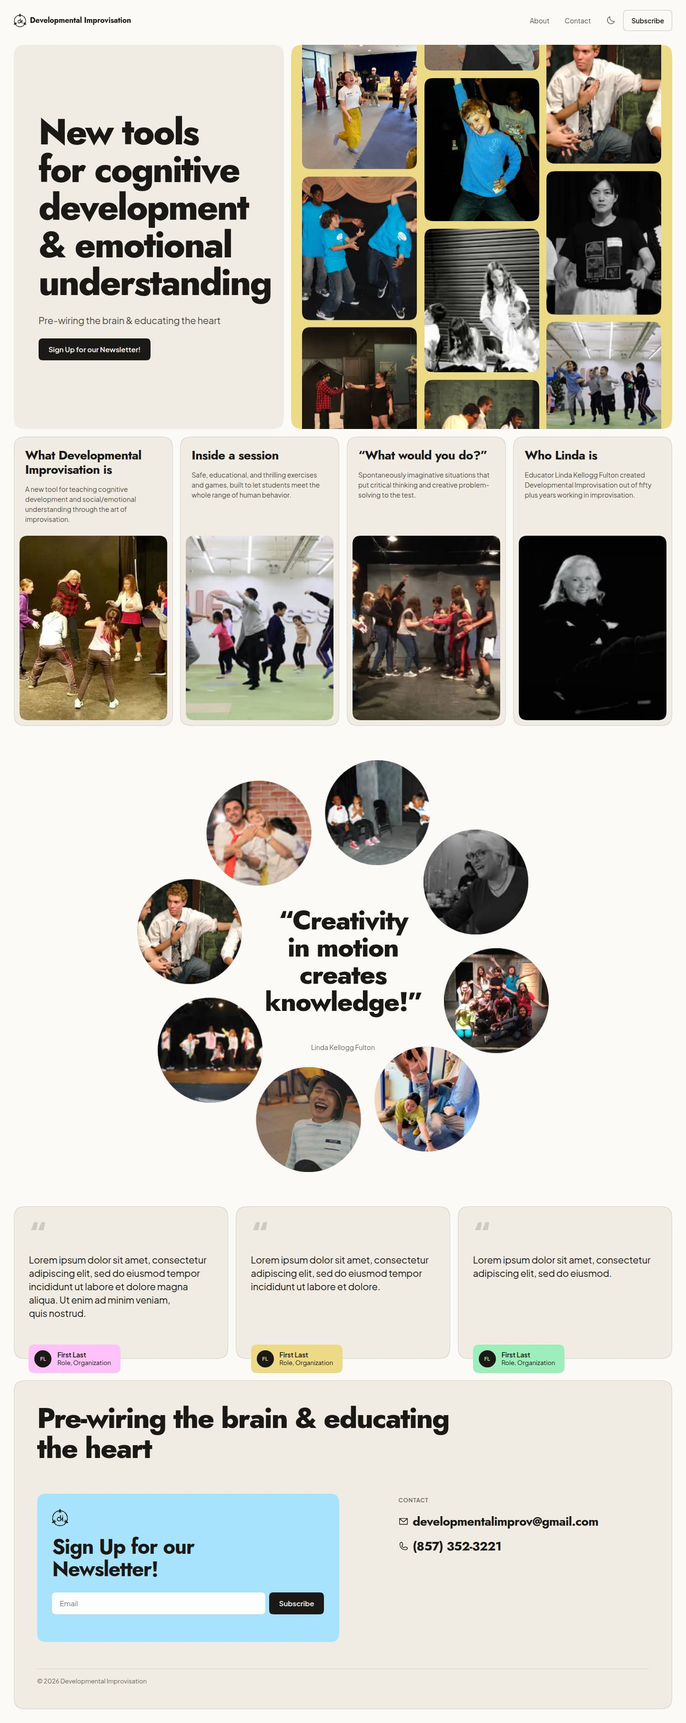
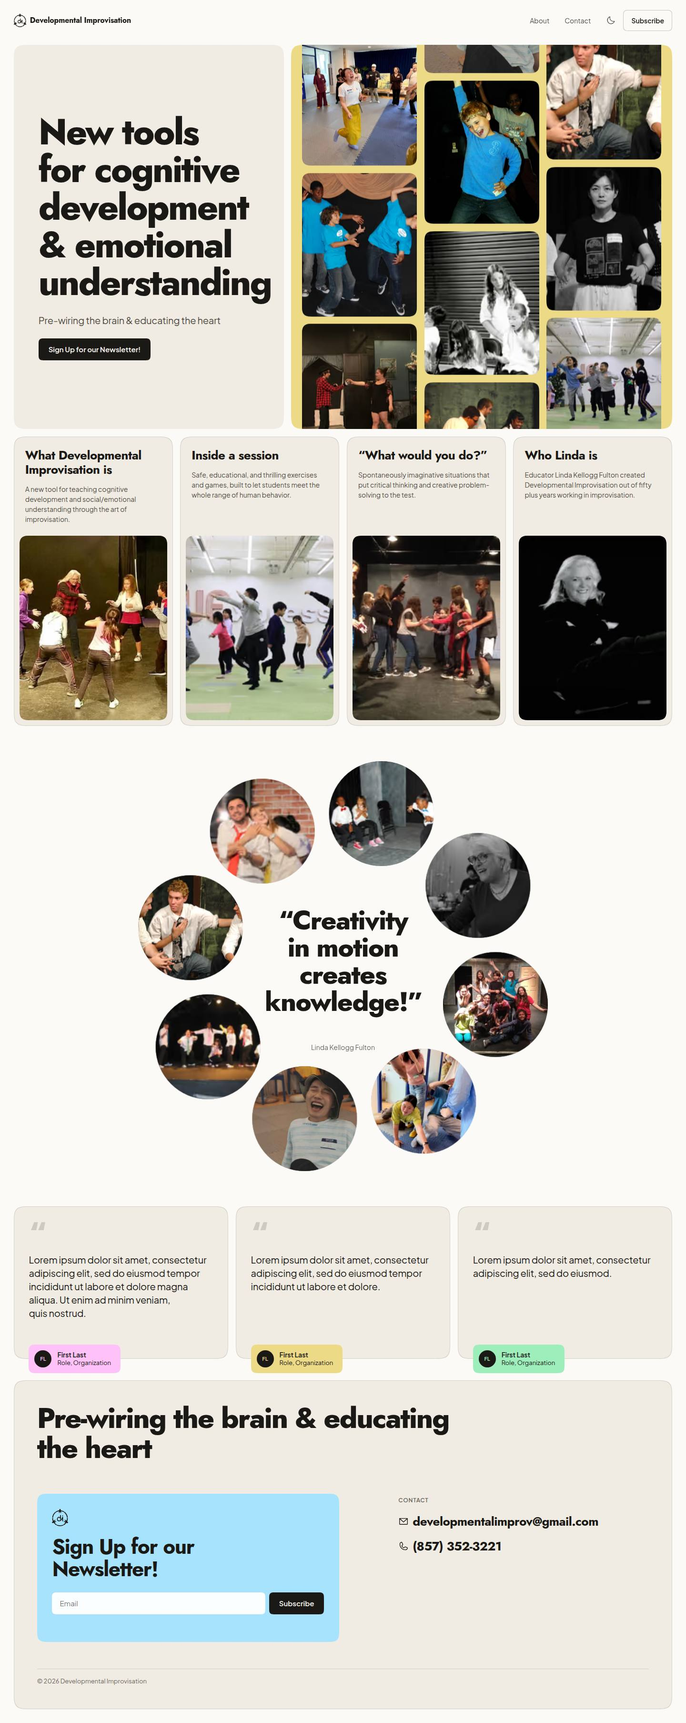
DI: a resize pass — a wide card is a horizontal card
"resizing the screen needs work not every part works nicely or shrinks nicely."
A 22-width sweep from 1920 to 320 found no overflow anywhere, and three real
faults none of the gates were looking for.

**The card row's middle range was broken.** Under a 4:5 photograph a card's
height tracks its WIDTH, so the wider the card the taller it gets — backwards
for a row that should get shorter as the screen narrows. At 1200 a 569px card
made a 683px photograph and an 850px card, and two of them filled a screen.
A wide card is a horizontal card now: the copy beside the picture, the figure
on a fixed 40% share. Sizing the figure by the card's HEIGHT instead was tried
first and is worse — the picture and the title chase each other until the
title breaks one word to a line.

The two bands are 1024–1279 (two up, 486–569px cards) and 561–767 (one up,
529–735px), which are not adjacent because it is the CARD's width that decides,
not the viewport's. A comma-separated media query list says exactly that.

**The closing field split at 768** and left its email input 170px wide, which
is not a field, it is a slot. It splits at 1024 now, and the input/button pair
stacks below 600 instead of 480.

**On a phone the testimonial's person chip sat 18px inside the next quote
card.** The 30px overhang was cleared against the closing field two rounds ago
but never against the next card when they stack. The layout gate holds that
geometry now, at every width it tests.

44 gate lines pass.
[…]

Changed region(s): [[0.4375, 0.0, 0.9688, 0.2479], [0.1875, 0.4337, 0.8125, 0.6816]]

diff --git a/di-site/css/home.css b/di-site/css/home.css
@@ -76,6 +76,22 @@
 .brief__arrow .icon { width: 16px; height: 16px; }
 .brief:hover .brief__arrow { transform: translateX(3px); }
 @media (min-width: 1280px) { .brief { grid-column: span 3; } }
+/* A wide card is a HORIZONTAL card. Under a 4:5 photograph, a card's height tracks its WIDTH — so the wider the card
+   the taller it gets, which is backwards for a row that should get shorter as the screen narrows: at 1200 a 569px card
+   made a 683px photograph and an 850px card. Beside the copy instead, the photograph is sized by the card's height, it
+   keeps 4:5, and the row keeps a sensible one. This is the range a card grid always gets wrong. */
+/* Two bands, because it is the CARD's width that decides, not the viewport's: two-up between 1024 and 1279 gives a
+   486–569px card, and one-up between 561 and 767 gives a 529–735px one. Everywhere else the card is 288–486 and the
+   vertical arrangement is right. */
+@media (min-width: 561px) and (max-width: 767px), (min-width: 1024px) and (max-width: 1279px) {
+  /* the figure takes a FIXED share of the card, or the photograph's height and the head's width chase each other:
+     sized by the card's height, the picture grew until the title was breaking one word to a line */
+  .brief { flex-direction: row; align-items: stretch; }
+  .brief__head { flex: 1 1 auto; align-self: center; padding: var(--sp-6); }
+  .brief__figure { flex: 0 0 40%; margin: var(--sp-3) var(--sp-3) var(--sp-3) 0; align-self: center; }
+  .brief__figure .photo { width: 100%; height: auto; }
+  .brief__more { left: var(--sp-6); bottom: var(--sp-6); }
+}
 /* no pointer, no hover: on a touch screen the hue and the control are simply the resting state, or the section never
    has either */
 @media (hover: none) {
@@ -126,8 +142,11 @@
 .voice__role { font-size: var(--fs-caption); color: var(--ink-3); line-height: 1.3; }
 @media (min-width: 768px) { .voices > .voice { grid-column: span 4; } }
 
-/* the sub-card hangs 30px below its card; the field below has to start clear of it, not on it */
+/* the sub-card hangs 30px below its card, and whatever comes next has to start clear of it, not on it: the closing
+   field below the row, and — where the cards stack — the next card. On a phone the plain grid gap left the chip
+   sitting 18px INSIDE the following quote. */
 .voices-sec { padding-bottom: calc(30px + var(--grid-gap)); }
+@media (max-width: 767px) { .voices { row-gap: calc(var(--grid-gap) + 30px); } }
 
 /* ---------- The closing field ----------
    Newsletter, contact and footer were three thin bands. They are one panel now — and the SKY moved off the panel and
@@ -153,7 +172,7 @@
 .close__sign .input { background: rgba(255,255,255,.94); box-shadow: none; }
 .close__sign .btn--primary { background: var(--ink); color: #F7F5F0; }
 @media (max-width: 767px) { .close__reach a { font-size: var(--fs-lead); } }   /* the address is 29 characters: at h3 it breaks mid-word on a phone */
-@media (min-width: 768px) {
+@media (min-width: 1024px) {
   .close__sign { grid-column: 1 / span 6; }
   .close__reach { grid-column: 8 / span 5; padding-top: var(--sp-2); }
 }

diff --git a/di-site/css/components.css b/di-site/css/components.css
@@ -69,7 +69,7 @@
 .field.is-error .input { box-shadow: inset 0 0 0 1px var(--ink); }
 .field__message { margin-top: var(--sp-2); font-size: var(--fs-caption); color: var(--ink-3); min-height: 1.4em; }
 .field__message[data-state="error"] { color: var(--ink); }
-@media (max-width: 479px) { .field { flex-direction: column; } .field .btn { width: 100%; } }
+@media (max-width: 599px) { .field { flex-direction: column; } .field .btn { width: 100%; } }
 
 /* Nav — no container at all: the wordmark on the left, the controls on the right, directly on the page at the field's
    gutter. It is fixed, and it behaves the way Jayden asked for: it leaves going down and comes back going up. At the top

diff --git a/di-site/docs/design-system.md b/di-site/docs/design-system.md
@@ -84,6 +84,8 @@ Tracking tightens as size grows; leading loosens as it shrinks. Measures are in 
 ## 5. Space and the column
 The page used to put a 1280 column inside a 40px gutter and read as a strip floating in dead space. Now: `--page-max` 1720, `--gutter` `clamp(16px, 2vw, 36px)` — content starts 29px from the edge at 1440, not 120px — `--grid-gap` `clamp(12px, 1.1vw, 20px)`, `--section-y` `clamp(56px, 2.2vw + 32px, 88px)`, `--card-pad` `clamp(20px, 2.2vw, 40px)`. Everything lays out on the same twelve columns (`.grid`; six below 768), and **the vertical rhythm is the same gap**: the header tiles, the hero's two panels, the four cards, the testimonials and the closing field are one continuous field separated by `--grid-gap`, not by section padding. `--section-y` survives in exactly one place — either side of the ring, which is the field's only break. `--field-top` (`--grid-gap` × 2 + `--nav-h`) is what the header row and the gap under it add up to, which is what puts the fold exactly on the field's next gap. The column is wide enough (`--page-max` 1720) that on a laptop the page IS the screen minus one small even inset, which is what puts the big surfaces a short spacing from the outer edge instead of inside a narrow centred strip. Hairlines are inset rims (`box-shadow: inset 0 0 0 1px`), never borders, so they never change an element's box.
 
+**Breakpoints are decided by the element's own width, not the viewport's.** The card row is the case that proves it: it needs a different arrangement in two bands that are not adjacent (1024–1279 and 561–767), because both are where a *card* comes out too wide. A media query list with a comma says exactly that. The same reasoning moved the closing field's two-column split from 768 up to 1024 — at 768 the sign-up card was 334px and its email input 170px, which is not a field, it is a slot — and the input/button pair now stacks below 600 rather than 480.
+
 ## 5b. Arrival
 Every section enters with intent rather than one flat 12px fade: the ring assembles one circle at a time, the testimonials stagger, the closing field rises. One `IntersectionObserver` drives all of it through `.reveal` and `.reveal--parts`. **Never observe a zero-area element** — the ring's orbit is a 0×0 positioning origin, and an element with no area can never satisfy a `threshold: 0.2`, so the ring simply never appeared; the *stage* is what is observed.
 
@@ -108,7 +110,7 @@ The page below it is **one bento field**, top to bottom, at one gutter and one g
 
 0. **The header — no container at all.** The wordmark on the left, the links, the theme toggle and Subscribe on the right, sitting directly on the page at the field's gutter. No bar, no glass, no tiles: Jayden asked for it clean and minimal, and the panel it used to sit in was one more surface competing with the field below it. **It leaves going down and comes back going up** — the pattern Jayden asked for by name. Fixed at every width; at the top of the page it has no ground at all, and anywhere else, once it is showing, it takes the least surface that can carry type over a photograph: the ground at 78%, blurred, with a hairline. A **6px threshold** is what keeps it from flickering on a trackpad's noise, above the fold it always shows, and **keyboard focus reveals it wherever it is**, so a tab stop can never sit off screen. Under reduced motion it still hides — it just does not slide. `scroll-margin-top` keeps an anchor from landing under it. There is no Home link — the logo is the way home — and no Gallery link: the gallery *is* the hero, so that item pointed at the top of the page from the top of the page. **About** and **Contact**.
 1. **Hero: two panels, filling the screen.** The panel's height *is* the hero's height (`100svh − --field-top`), so the fold lands exactly on the field's next gap: no centring air below the panels, and the card row starts just off screen rather than competing with the headline. The copy on a **cream panel**, left five columns; the right seven a **colour panel** holding a bento of fifteen photographs in three columns, looping vertically with the flow, adjacent columns in opposite directions at three speeds (`--speed` per column). **The panel's own rounded edge is the crop** — there is no soft mask. Each column carries its contents twice and `[data-mid]` marks the loop length; every tile has an intrinsic ratio, so that length is stable before the images load. The panel needs an explicit `height`: `overflow: hidden` does not constrain a box sizing to its own content, and a column of ten tiles once made the row 3197px tall.
-2. **The four cards.** One row, four identical objects, three columns each: a head carrying the title and a two-line summary; the photograph below it; one control. There were two chips above each title — a number and a topic — and they were saying what the title already said. The title *is* the header: what it is · inside a session · "what would you do?" · who Linda is. The **whole card** fills with its hue under the pointer and on keyboard focus — head and ground together; filling only the head left a seam at the photograph's top edge and read as two objects stacked rather than one card lighting up. The ink rebind stays on the head: put it on the card and the control inherits it, and a pill whose ground is `--bg-overlay` and whose ink is `--on-accent` renders as a black blob on an orange card. Two cards say what Developmental Improvisation is, one says what it asks of a student, one says who Linda is. **The photograph slips `--slip` 20px up out of its box and over the colour** — the one place on the page a panel's contents cross an edge, and small on purpose: 20px reads as deliberate, 60px reads as broken. The pill arrives with the hue — at rest the card is a title, a summary and a picture — and focus reveals it too, because a control the keyboard can reach but never see is worse than none. The whole card is the trigger and the pill is the keyboard route; both open **the reader** (a click that ends a text selection does not — a card is a big target wrapped around selectable words), a dialog whose head takes that card's hue so the panel clicked and the panel opened are plainly the same object. The full copy lives in the card (`.brief__full`) and is hidden only when there is script to open a reader.
+2. **The four cards.** One row, four identical objects, three columns each — **and a wide card is a horizontal card**. Under a 4:5 photograph a card's height tracks its *width*, so the wider the card the taller it gets, which is backwards for a row that should get shorter as the screen narrows: at 1200 a 569px card made a 683px photograph and an 850px card. Between **1024 and 1279** (two up, 486–569px cards) and between **561 and 767** (one up, 529–735px) the copy sits beside the photograph instead, with the figure on a fixed 40% share — size it by the card's height and the picture and the title chase each other until the title breaks one word to a line. Everywhere else the card is 288–486px and the vertical arrangement is right. Each card carries: a head carrying the title and a two-line summary; the photograph below it; one control. There were two chips above each title — a number and a topic — and they were saying what the title already said. The title *is* the header: what it is · inside a session · "what would you do?" · who Linda is. The **whole card** fills with its hue under the pointer and on keyboard focus — head and ground together; filling only the head left a seam at the photograph's top edge and read as two objects stacked rather than one card lighting up. The ink rebind stays on the head: put it on the card and the control inherits it, and a pill whose ground is `--bg-overlay` and whose ink is `--on-accent` renders as a black blob on an orange card. Two cards say what Developmental Improvisation is, one says what it asks of a student, one says who Linda is. **The photograph slips `--slip` 20px up out of its box and over the colour** — the one place on the page a panel's contents cross an edge, and small on purpose: 20px reads as deliberate, 60px reads as broken. The pill arrives with the hue — at rest the card is a title, a summary and a picture — and focus reveals it too, because a control the keyboard can reach but never see is worse than none. The whole card is the trigger and the pill is the keyboard route; both open **the reader** (a click that ends a text selection does not — a card is a big target wrapped around selectable words), a dialog whose head takes that card's hue so the panel clicked and the panel opened are plainly the same object. The full copy lives in the card (`.brief__full`) and is hidden only when there is script to open a reader.
    *What this replaced:* a sticky stack of four cards, each with a different beat. Jayden: the second card "doesn't act like the rest of the cards and it makes the scroll weird". Four cards of one shape, in a row, is the answer that survived.
 3. **The quote ring — the break.** Eight circular photographs turning around the quote, on the open ground, with `--section-y` either side: the one place the field stops. Its geometry is one relationship: **eight items on a circle of radius r sit 2r·sin(22.5°) = 0.765r apart**, so an item sized near that reads as a necklace rather than as eight dots with ground between them. The clear space inside is `2r − item`, and the quote's column is that minus 32px — derived, not a magic multiplier. The necklace **assembles on arrival**, one photograph a beat after the last; the entrance lives on the photograph inside each item because the item itself carries the flow's transform every frame.
 4. **Testimonials — the field resumes.** Three quiet cards, four columns each: a large quote mark at 16% of the card's ink, the quote, and the person in a **nested card that overhangs the bottom-left corner** — and the hue is on that chip, not on the card. The depth comes from the nesting, not from a shadow. The row carries 30px of bottom padding because that overhang has to land somewhere — without it the three sub-cards sat on the closing field's edge. There is no section label: three quotes with names under them do not need to be told they are testimonials.

diff --git a/di-site/docs/design-system.notion.md b/di-site/docs/design-system.notion.md
@@ -85,6 +85,8 @@ Tracking tightens as size grows; leading loosens as it shrinks. Measures are in 
 ## Space and the column
 The page used to put a 1280 column inside a 40px gutter and read as a strip floating in dead space. Now: `--page-max` 1720, `--gutter` `clamp(16px, 2vw, 36px)` — content starts 29px from the edge at 1440, not 120px — `--grid-gap` `clamp(12px, 1.1vw, 20px)`, `--section-y` `clamp(56px, 2.2vw + 32px, 88px)`, `--card-pad` `clamp(20px, 2.2vw, 40px)`. Everything lays out on the same twelve columns (`.grid`; six below 768), and **the vertical rhythm is the same gap**: the header tiles, the hero's two panels, the four cards, the testimonials and the closing field are one continuous field separated by `--grid-gap`, not by section padding. `--section-y` survives in exactly one place — either side of the ring, which is the field's only break. `--field-top` (`--grid-gap` × 2 + `--nav-h`) is what the header row and the gap under it add up to, which is what puts the fold exactly on the field's next gap. The column is wide enough (`--page-max` 1720) that on a laptop the page IS the screen minus one small even inset, which is what puts the big surfaces a short spacing from the outer edge instead of inside a narrow centred strip. Hairlines are inset rims (`box-shadow: inset 0 0 0 1px`), never borders, so they never change an element's box.
 
+**Breakpoints are decided by the element's own width, not the viewport's.** The card row is the case that proves it: it needs a different arrangement in two bands that are not adjacent (1024–1279 and 561–767), because both are where a *card* comes out too wide. A media query list with a comma says exactly that. The same reasoning moved the closing field's two-column split from 768 up to 1024 — at 768 the sign-up card was 334px and its email input 170px, which is not a field, it is a slot — and the input/button pair now stacks below 600 rather than 480.
+
 ## Arrival
 Every section enters with intent rather than one flat 12px fade: the ring assembles one circle at a time, the testimonials stagger, the closing field rises. One `IntersectionObserver` drives all of it through `.reveal` and `.reveal--parts`. **Never observe a zero-area element** — the ring's orbit is a 0×0 positioning origin, and an element with no area can never satisfy a `threshold: 0.2`, so the ring simply never appeared; the *stage* is what is observed.
 
@@ -109,7 +111,7 @@ The page below it is **one bento field**, top to bottom, at one gutter and one g
 
 0. **The header — no container at all.** The wordmark on the left, the links, the theme toggle and Subscribe on the right, sitting directly on the page at the field's gutter. No bar, no glass, no tiles: Jayden asked for it clean and minimal, and the panel it used to sit in was one more surface competing with the field below it. **It leaves going down and comes back going up** — the pattern Jayden asked for by name. Fixed at every width; at the top of the page it has no ground at all, and anywhere else, once it is showing, it takes the least surface that can carry type over a photograph: the ground at 78%, blurred, with a hairline. A **6px threshold** is what keeps it from flickering on a trackpad's noise, above the fold it always shows, and **keyboard focus reveals it wherever it is**, so a tab stop can never sit off screen. Under reduced motion it still hides — it just does not slide. `scroll-margin-top` keeps an anchor from landing under it. There is no Home link — the logo is the way home — and no Gallery link: the gallery *is* the hero, so that item pointed at the top of the page from the top of the page. **About** and **Contact**.
 1. **Hero: two panels, filling the screen.** The panel's height *is* the hero's height (`100svh − --field-top`), so the fold lands exactly on the field's next gap: no centring air below the panels, and the card row starts just off screen rather than competing with the headline. The copy on a **cream panel**, left five columns; the right seven a **colour panel** holding a bento of fifteen photographs in three columns, looping vertically with the flow, adjacent columns in opposite directions at three speeds (`--speed` per column). **The panel's own rounded edge is the crop** — there is no soft mask. Each column carries its contents twice and `[data-mid]` marks the loop length; every tile has an intrinsic ratio, so that length is stable before the images load. The panel needs an explicit `height`: `overflow: hidden` does not constrain a box sizing to its own content, and a column of ten tiles once made the row 3197px tall.
-2. **The four cards.** One row, four identical objects, three columns each: a head carrying the title and a two-line summary; the photograph below it; one control. There were two chips above each title — a number and a topic — and they were saying what the title already said. The title *is* the header: what it is · inside a session · "what would you do?" · who Linda is. The **whole card** fills with its hue under the pointer and on keyboard focus — head and ground together; filling only the head left a seam at the photograph's top edge and read as two objects stacked rather than one card lighting up. The ink rebind stays on the head: put it on the card and the control inherits it, and a pill whose ground is `--bg-overlay` and whose ink is `--on-accent` renders as a black blob on an orange card. Two cards say what Developmental Improvisation is, one says what it asks of a student, one says who Linda is. **The photograph slips `--slip` 20px up out of its box and over the colour** — the one place on the page a panel's contents cross an edge, and small on purpose: 20px reads as deliberate, 60px reads as broken. The pill arrives with the hue — at rest the card is a title, a summary and a picture — and focus reveals it too, because a control the keyboard can reach but never see is worse than none. The whole card is the trigger and the pill is the keyboard route; both open **the reader** (a click that ends a text selection does not — a card is a big target wrapped around selectable words), a dialog whose head takes that card's hue so the panel clicked and the panel opened are plainly the same object. The full copy lives in the card (`.brief__full`) and is hidden only when there is script to open a reader.
+2. **The four cards.** One row, four identical objects, three columns each — **and a wide card is a horizontal card**. Under a 4:5 photograph a card's height tracks its *width*, so the wider the card the taller it gets, which is backwards for a row that should get shorter as the screen narrows: at 1200 a 569px card made a 683px photograph and an 850px card. Between **1024 and 1279** (two up, 486–569px cards) and between **561 and 767** (one up, 529–735px) the copy sits beside the photograph instead, with the figure on a fixed 40% share — size it by the card's height and the picture and the title chase each other until the title breaks one word to a line. Everywhere else the card is 288–486px and the vertical arrangement is right. Each card carries: a head carrying the title and a two-line summary; the photograph below it; one control. There were two chips above each title — a number and a topic — and they were saying what the title already said. The title *is* the header: what it is · inside a session · "what would you do?" · who Linda is. The **whole card** fills with its hue under the pointer and on keyboard focus — head and ground together; filling only the head left a seam at the photograph's top edge and read as two objects stacked rather than one card lighting up. The ink rebind stays on the head: put it on the card and the control inherits it, and a pill whose ground is `--bg-overlay` and whose ink is `--on-accent` renders as a black blob on an orange card. Two cards say what Developmental Improvisation is, one says what it asks of a student, one says who Linda is. **The photograph slips `--slip` 20px up out of its box and over the colour** — the one place on the page a panel's contents cross an edge, and small on purpose: 20px reads as deliberate, 60px reads as broken. The pill arrives with the hue — at rest the card is a title, a summary and a picture — and focus reveals it too, because a control the keyboard can reach but never see is worse than none. The whole card is the trigger and the pill is the keyboard route; both open **the reader** (a click that ends a text selection does not — a card is a big target wrapped around selectable words), a dialog whose head takes that card's hue so the panel clicked and the panel opened are plainly the same object. The full copy lives in the card (`.brief__full`) and is hidden only when there is script to open a reader.
    *What this replaced:* a sticky stack of four cards, each with a different beat. Jayden: the second card "doesn't act like the rest of the cards and it makes the scroll weird". Four cards of one shape, in a row, is the answer that survived.
 3. **The quote ring — the break.** Eight circular photographs turning around the quote, on the open ground, with `--section-y` either side: the one place the field stops. Its geometry is one relationship: **eight items on a circle of radius r sit 2r·sin(22.5°) = 0.765r apart**, so an item sized near that reads as a necklace rather than as eight dots with ground between them. The clear space inside is `2r − item`, and the quote's column is that minus 32px — derived, not a magic multiplier. The necklace **assembles on arrival**, one photograph a beat after the last; the entrance lives on the photograph inside each item because the item itself carries the flow's transform every frame.
 4. **Testimonials — the field resumes.** Three quiet cards, four columns each: a large quote mark at 16% of the card's ink, the quote, and the person in a **nested card that overhangs the bottom-left corner** — and the hue is on that chip, not on the card. The depth comes from the nesting, not from a shadow. The row carries 30px of bottom padding because that overhang has to land somewhere — without it the three sub-cards sat on the closing field's edge. There is no section label: three quotes with names under them do not need to be told they are testimonials.

diff --git a/di-site/docs/BUILD-LOG.md b/di-site/docs/BUILD-LOG.md
@@ -9,6 +9,8 @@ Three asks. **"the font needs a change it doesnt really match the font of the lo
 
 **And the cards lost their chips.** *"i dont like these little pills on the top… make the headers make sense and everything will make sense."* Right: a number and a topic in two pills above a title that already said the same thing. Gone, and `.chip` with them — nothing else used it. A card is a title, a summary, a picture and one control.
 
+**Then a resize pass**, after *"resizing the screen needs work not every part works nicely or shrinks nicely."* A 22-width sweep found no overflow anywhere — and three real faults the gates were not looking for. **The card row's middle range was broken**: under a 4:5 photograph a card's height tracks its width, so at 1200 a 569px card made a 683px photograph and an 850px card, and two of them filled a screen. A wide card is a horizontal card now — copy beside the picture, the figure on a fixed 40% share — in the two bands where a card comes out too wide (1024–1279 two-up, 561–767 one-up). **The closing field split at 768** and left its email input 170px wide; it splits at 1024 now, and the input/button pair stacks below 600 instead of 480. **And on a phone the testimonial's person chip sat 18px inside the next quote card** — the overhang was cleared against the footer but never against the next card when they stack. The layout gate holds that geometry now, at every width it tests.
+
 **Measured after v13.** 44 gate lines pass. Worst contrast 5.44:1 light / 5.28:1 dark.
 
 ## v12 (2026-09-06) — one bento field, four clickable cards, and a pastel light theme

diff --git a/docs/developmental-improvisation/BUILD-PROMPT.md b/docs/developmental-improvisation/BUILD-PROMPT.md
@@ -163,7 +163,10 @@ the panel needs an **explicit height**: `overflow: hidden` does not constrain a 
 column of ten tiles once made the row 3197px tall. The hero does **not** claim `100svh` — the card row has to break the
 fold or the field reads as two pages.
 
-**2. The four cards.** One row, four identical objects, three columns each (two up, then one, as the grid narrows). Each
+**2. The four cards.** One row, four identical objects, three columns each (two up, then one, as the grid narrows).
+**A wide card is a horizontal card**: under a 4:5 photograph a card's height tracks its width, so a wide card is a tall
+one. Between 1024–1279 and between 561–767 the copy sits beside the picture on a fixed 40% share. Breakpoints here are
+decided by the CARD's width, not the viewport's — which is why that is two bands and not one. Each
 carries a head with the title and a two-line summary; the photograph below; one control, and the WHOLE card fills
 with its hue under the pointer and on focus — head and ground together; filling only the head leaves a seam at the
 photograph's top edge. The ink rebind stays on the head, or the control inherits it and renders as a blob. Two say what Developmental Improvisation is, one says what it asks of a student, one says who Linda is. The
